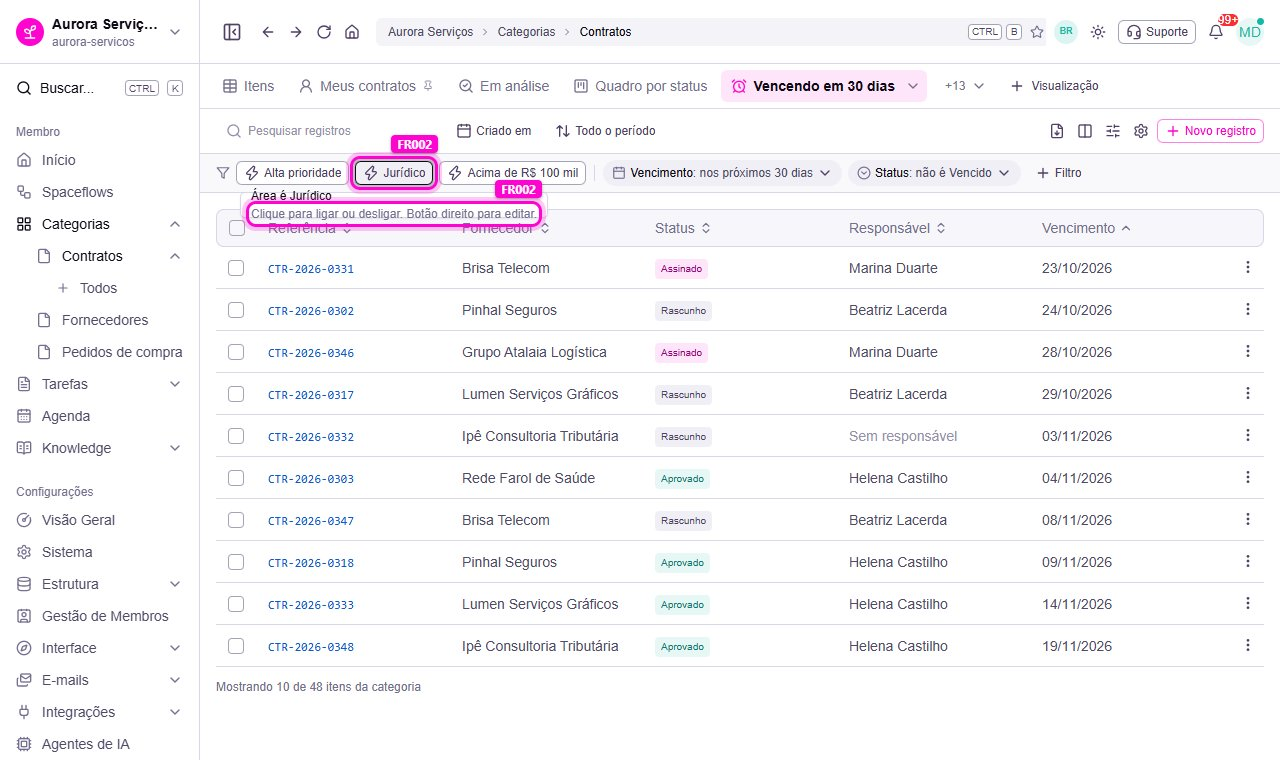
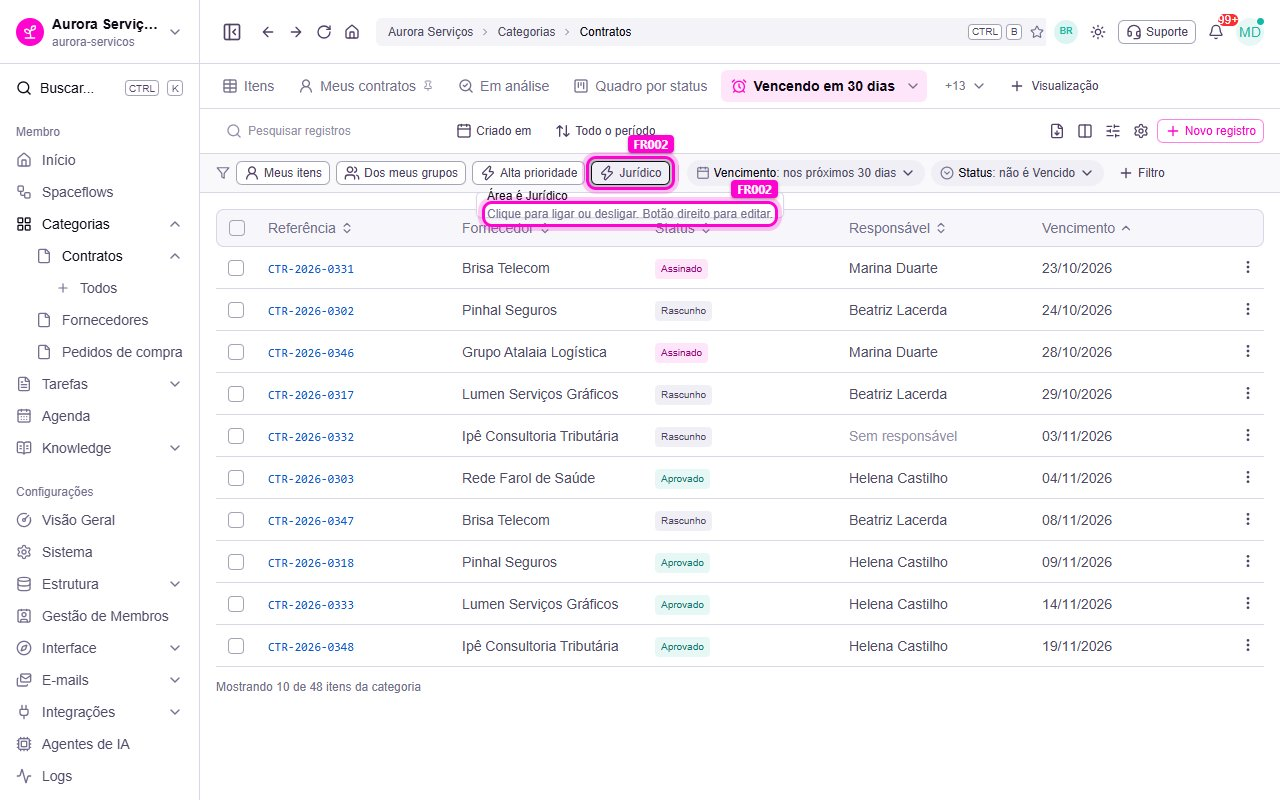
[PROTO] visualizacoes-da-tela-de-itens — rodada 8 — Meus itens e Dos meus grupos como botões em toda visualização; criar filtro rápido só quando a pessoa pede

diff --git a/app/pages/visualizacoes-da-tela-de-itens/textos.ts b/app/pages/visualizacoes-da-tela-de-itens/textos.ts
@@ -321,8 +321,8 @@ const ptBR = {
     criadoAjuda: 'Ele fica na visualização quando você salvar.',
     alterado: (nome: string) => `Filtro rápido ${nome} alterado.`,
     excluido: (nome: string) => `Filtro rápido ${nome} excluído.`,
-    painelAjuda: 'Botões na linha de filtros. O sistema sugere 2, e você pode criar outros.',
-    doSistema: 'Sugeridos pelo sistema',
+    painelAjuda: 'Botões na linha de filtros. Os do sistema aparecem em toda visualização, e você pode criar outros.',
+    doSistema: 'Do sistema',
     seus: 'Criados por você',
     sugerido: {
       isOwner: { nome: 'Meus itens', ajuda: 'Itens em que você é o dono.' },
@@ -332,7 +332,7 @@ const ptBR = {
     modoBotao: 'Como botão',
     modoSempre: 'Sempre aplicado',
     comoUsar: (nome: string) => `Como usar ${nome}`,
-    dicaSistema: 'Sugerido pelo sistema. Clique para ligar ou desligar.',
+    dicaSistema: 'Filtro do sistema. Clique para ligar ou desligar.',
     nenhum: 'Nenhum filtro rápido.',
     adicionar: 'Adicionar filtro rápido',
     editarNome: (nome: string) => `Editar ${nome}`,
@@ -774,8 +774,8 @@ const en: Textos = {
     criadoAjuda: 'It stays in the view once you save.',
     alterado: (nome: string) => `Quick filter ${nome} updated.`,
     excluido: (nome: string) => `Quick filter ${nome} deleted.`,
-    painelAjuda: 'Buttons in the filter bar. The system suggests 2, and you can create others.',
-    doSistema: 'Suggested by the system',
+    painelAjuda: 'Buttons in the filter bar. The system ones appear in every view, and you can create others.',
+    doSistema: 'From the system',
     seus: 'Created by you',
     sugerido: {
       isOwner: { nome: 'My items', ajuda: 'Items you own.' },
@@ -785,7 +785,7 @@ const en: Textos = {
     modoBotao: 'As a button',
     modoSempre: 'Always applied',
     comoUsar: (nome: string) => `How to use ${nome}`,
-    dicaSistema: 'Suggested by the system. Click to turn it on or off.',
+    dicaSistema: 'System filter. Click to turn it on or off.',
     nenhum: 'No quick filters.',
     adicionar: 'Add quick filter',
     editarNome: (nome: string) => `Edit ${nome}`,
@@ -1225,8 +1225,8 @@ const es: Textos = {
     criadoAjuda: 'Queda en la vista cuando la guarde.',
     alterado: (nome: string) => `Filtro rápido ${nome} modificado.`,
     excluido: (nome: string) => `Filtro rápido ${nome} eliminado.`,
-    painelAjuda: 'Botones en la barra de filtros. El sistema sugiere 2, y usted puede crear otros.',
-    doSistema: 'Sugeridos por el sistema',
+    painelAjuda: 'Botones en la barra de filtros. Los del sistema aparecen en todas las vistas, y usted puede crear otros.',
+    doSistema: 'Del sistema',
     seus: 'Creados por usted',
     sugerido: {
       isOwner: { nome: 'Mis ítems', ajuda: 'Ítems de los que usted es el dueño.' },
@@ -1236,7 +1236,7 @@ const es: Textos = {
     modoBotao: 'Como botón',
     modoSempre: 'Siempre aplicado',
     comoUsar: (nome: string) => `Cómo usar ${nome}`,
-    dicaSistema: 'Sugerido por el sistema. Haga clic para activarlo o desactivarlo.',
+    dicaSistema: 'Filtro del sistema. Haga clic para activarlo o desactivarlo.',
     nenhum: 'Ningún filtro rápido.',
     adicionar: 'Agregar filtro rápido',
     editarNome: (nome: string) => `Editar ${nome}`,

diff --git a/app/pages/visualizacoes-da-tela-de-itens/index.vue b/app/pages/visualizacoes-da-tela-de-itens/index.vue
@@ -15,7 +15,7 @@ import type { EnKanbanCardConfig, EnKanbanColumn, EnTableColumn, EnTableSort } f
 import type { Item, Visualizacao, Volume } from './mocks'
 import type { ResumoDaVisualizacao } from './filtros'
 import { textos } from './textos'
-import { CAMPOS, EU, GRUPOS, ITENS, aplicar, campoPorPath, clonar, categoria, nomeDaPessoa, visualizacoesIniciais, workspace, SUGERIDOS } from './mocks'
+import { CAMPOS, EU, GRUPOS, ITENS, aplicar, campoPorPath, clonar, categoria, nomeDaPessoa, visualizacoesIniciais, sugeridosComoBotao, workspace } from './mocks'
 import CascaDaLista from './_CascaDaLista.vue'
 import BarraDeVisualizacoes from './_BarraDeVisualizacoes.vue'
 import BarraDeHoje from './_BarraDeHoje.vue'
@@ -206,7 +206,8 @@ const linhaRef = ref<InstanceType<typeof LinhaDeFiltros> | null>(null)
 const linhaPedida = ref(false)
 const temFiltro = computed(() => {
   const f = efetiva.value.filters
-  return !!(f.field_filters?.length || f.quick_filters?.length || f.avancado || f.rapidos?.length)
+  // Rodada 8: os filtros rápidos nativos são botões por padrão, então a linha aparece em toda visualização que os mostra.
+  return !!(f.field_filters?.length || f.quick_filters?.length || f.avancado || f.rapidos?.length || sugeridosComoBotao(f).length)
 })
 watch(ativa, () => { linhaPedida.value = false })
 
@@ -426,8 +427,7 @@ function novaVisualizacao(d: { tipo: 'table' | 'kanban', soEu: boolean, fixar: b
     fixada: d.fixar,
     // Standard ou Viewer cria só para si.
     user: d.soEu || !ehOwner.value ? EU.id : null,
-    // Rodada 8: a visualização nova já vem com os filtros rápidos que o sistema sugere, como botões.
-    filters: { quick_filters: SUGERIDOS.map(filter => ({ filter, required: false })) },
+    filters: {},
     // Kanban genérico sem etiqueta: o cartão do SDK tem altura fixa (h-48) e, com as 5 partes, o texto de apoio some.
     config: d.tipo === 'kanban'
       ? { hide: false, columns: base.config.columns, groupBy: 'status', cardConfig: { header: 'fornecedor', content: 'valor', userField: 'responsavel', dueDateField: 'vencimento' } }

diff --git a/app/pages/visualizacoes-da-tela-de-itens/mocks.ts b/app/pages/visualizacoes-da-tela-de-itens/mocks.ts
@@ -190,7 +190,8 @@ export type Visualizacao = Omit<ModelView, 'id' | 'created_at' | 'updated_at' | 
   }
   filters: {
     field_filters?: FiltroDeCampo[]
-    quick_filters?: { filter: 'isOwner' | 'inGroups' | string, required?: boolean }[]
+    // INVENTADO (rodada 8): `oculto` esconde o botão do filtro nativo nesta visualização.
+    quick_filters?: { filter: 'isOwner' | 'inGroups' | string, required?: boolean, oculto?: boolean }[]
     /** INVENTADO: o filtro avançado, que vale junto (E) com os filtros simples de `field_filters`. */
     avancado?: GrupoDeRegras
     /** INVENTADO (rodada 8): os filtros rápidos da visualização, na ordem dos botões. */
@@ -260,7 +261,6 @@ const POUCAS: Visualizacao[] = [
       rapidos: [
         { id: 'rapido-alta', nome: 'Alta prioridade', regras: { conector: 'and', regras: [{ field: 'prioridade', op: 'in', value: ['Alta'] }] } },
         { id: 'rapido-juridico', nome: 'Jurídico', regras: { conector: 'and', regras: [{ field: 'area', op: 'in', value: ['Jurídico'] }] } },
-        { id: 'rapido-100-mil', nome: 'Acima de R$ 100 mil', regras: { conector: 'and', regras: [{ field: 'valor', op: 'gte', value: 100000 }] } },
       ],
     },
   }),
@@ -333,6 +333,9 @@ export type Sugerido = typeof SUGERIDOS[number]
 export const ICONE_DO_SUGERIDO: Record<Sugerido, string> = { isOwner: 'i-lucide-user-round', inGroups: 'i-lucide-users' }
 /** O sugerido sem `required` é botão na linha de filtros; este é o id dele entre os ligados. */
 export const idDoSugerido = (f: string) => `sistema-${f}`
+/** Os nativos que a linha mostra como botão: todos, por padrão; sai o que a visualização aplica sempre ou esconde. */
+export const sugeridosComoBotao = (f: Visualizacao['filters']): Sugerido[] =>
+  SUGERIDOS.filter((s) => { const q = f.quick_filters?.find(x => x.filter === s); return !q || (!q.required && !q.oculto) })
 
 /**
  * `ligados`: os filtros rápidos ligados agora; cada um vale junto (E) com os outros filtros.

diff --git a/app/pages/visualizacoes-da-tela-de-itens/_LinhaDeFiltros.vue b/app/pages/visualizacoes-da-tela-de-itens/_LinhaDeFiltros.vue
@@ -13,7 +13,7 @@
  */
 import type { FiltroDeCampo, FiltroRapido, GrupoDeRegras, Visualizacao } from './mocks'
 import type { Textos } from './textos'
-import { CAMPOS, ICONE_DO_SUGERIDO, ICONE_DO_TIPO, campoPorPath, clonar, idDoSugerido } from './mocks'
+import { CAMPOS, ICONE_DO_SUGERIDO, ICONE_DO_TIPO, campoPorPath, clonar, idDoSugerido, sugeridosComoBotao } from './mocks'
 import type { Sugerido } from './mocks'
 import { campoLivre, contarRegras, regraNova, useDescricaoDeFiltro } from './filtros'
 import ChipDeFiltro from './_ChipDeFiltro.vue'
@@ -34,9 +34,9 @@ const simples = computed(() => filtros.value.field_filters ?? [])
 const rapidos = computed(() => filtros.value.quick_filters ?? [])
 const avancado = computed(() => filtros.value.avancado)
 const botoes = computed(() => filtros.value.rapidos ?? [])
-/* Rodada 8: o filtro pronto com `required` é chip fixo, como hoje; sem `required`, é botão sugerido pelo sistema. */
+/* Rodada 8: os nativos são botões em toda visualização, por padrão; o que a visualização aplica sempre é chip fixo, como hoje. */
 const fixos = computed(() => rapidos.value.filter(q => q.required))
-const sugeridos = computed(() => rapidos.value.filter(q => !q.required).map(q => q.filter as Sugerido))
+const sugeridos = computed<Sugerido[]>(() => sugeridosComoBotao(filtros.value))
 
 const mudar = (parte: Partial<Filtros>) => { filtros.value = { ...clonar(filtros.value), ...parte } }
 

diff --git a/app/pages/visualizacoes-da-tela-de-itens/_PainelDeConfiguracao.vue b/app/pages/visualizacoes-da-tela-de-itens/_PainelDeConfiguracao.vue
@@ -157,8 +157,8 @@ function soltarColuna() {
 
 /* ---------- filtros ---------- */
 
-/* Rodada 8: cada filtro pronto que o sistema sugere tem 3 usos. "Como botão" é o `quick_filters` sem `required`
- * (o botão na linha de filtros); "Sempre aplicado" é com `required` (o filtro automático de hoje). */
+/* Rodada 8: cada filtro nativo tem 3 usos. "Como botão" é o padrão, sem nada gravado; "Sempre aplicado" é o
+ * `quick_filters` com `required` (o filtro automático de hoje); "Não usar" grava `oculto`. */
 type ModoDoSugerido = 'nao' | 'botao' | 'sempre'
 const modos = computed(() => [
   { label: props.t.rapido.modoNao, value: 'nao' },
@@ -167,12 +167,12 @@ const modos = computed(() => [
 ])
 function modoDe(f: Sugerido): ModoDoSugerido {
   const q = (rascunho.value.filters.quick_filters ?? []).find(x => x.filter === f)
-  return !q ? 'nao' : q.required ? 'sempre' : 'botao'
+  return !q ? 'botao' : q.required ? 'sempre' : q.oculto ? 'nao' : 'botao'
 }
 function mudarSugerido(f: Sugerido, modo: ModoDoSugerido) {
   mudar((x) => {
     const lista = (x.filters.quick_filters ?? []).filter(q => q.filter !== f)
-    x.filters.quick_filters = modo === 'nao' ? lista : [...lista, { filter: f, required: modo === 'sempre' }]
+    x.filters.quick_filters = modo === 'botao' ? lista : [...lista, modo === 'sempre' ? { filter: f, required: true } : { filter: f, oculto: true }]
   })
 }
 

diff --git a/app/pages/visualizacoes-da-tela-de-itens/DECISOES.md b/app/pages/visualizacoes-da-tela-de-itens/DECISOES.md
@@ -266,8 +266,10 @@
   - "tanto pra novas visualizaçoes de itens quanto pra novas visualizaçoes de tarefas o user deve ser capaz de fazer isso, beleza? criar os proprios filtros rapidos, no caso, criar um filtro e defini-lo como filtro rapido."
   - "nao só enquanto ta visualizando ele deve poder criar o filtro, mas na hora de criar uma nova visualizaçao personalizada ele tem a configuraçao de filtros automaicos, correto? nesse momento ele deve poder fazer isso tambem."
   - "mas lembre que na hora de criar views, ja tem filtros rapidos sugeridos pelo sistema. e o user deve poder criar mais. essa deve ser a jornada."
-- **Como é hoje** (lido no código do front e do back, branch develop, em 2026-11-11): o filtro rápido da visualização guarda só a chave de um filtro pronto do produto, sem condição de campo. Nos itens, os prontos são "Só os itens meus" e "Só os itens dos meus grupos"; nas Tarefas Rápidas e Agendadas, outros prontos, como Minhas tarefas, Aberto e Atrasado. Os que a visualização marca sem "obrigatório" viram botões na barra da tabela. A pessoa não cria um filtro rápido com regra própria: a demanda faz sentido e pede ao back um lugar para guardar o nome e as regras de cada botão.
+  - "quando o usuario ta na tela geral de itens e coloca pra usar um filtro rapido, ta ruim ainda. filtro rapido é algo que ja deve estar em tela. hoje os filtros rapidos nativos sao "meus itens" itens dos meus grupos". mas nao estao na interface (erro dos devs). ja devem aparecer por padrão ali pro user. se ele colocar pra criar filtro rapido, aí sim deve poder criar."
+- **Como é hoje** (lido no código do front e do back, branch develop, em 2026-11-11): o filtro rápido da visualização guarda só a chave de um filtro pronto do produto, sem condição de campo. Nos itens, os prontos são "Só os itens meus" e "Só os itens dos meus grupos"; nas Tarefas Rápidas e Agendadas, outros prontos, como Minhas tarefas, Aberto e Atrasado. Os que a visualização marca sem "obrigatório" viram botões na barra da tabela. Os 2 nativos não aparecem na tela hoje, e a redatora aponta isso como erro. A pessoa não cria um filtro rápido com regra própria: a demanda faz sentido e pede ao back um lugar para guardar o nome e as regras de cada botão.
 - **Proposta:**
+  - os 2 filtros rápidos nativos, "Meus itens" e "Dos meus grupos", aparecem como botões em toda visualização, também na tela geral de itens, sem a pessoa configurar nada. A linha de filtros aparece sempre que há um botão;
   - o filtro rápido é um botão na linha de filtros, com nome e regras; as regras usam o mesmo construtor do filtro avançado (E, Ou e grupos);
   - clicar liga e desliga o botão. Ligar não é alteração da visualização: vale até sair da tela;
   - criar, editar e excluir o botão é alteração da visualização e passa pela barra de alterações não salvas, com as permissões de salvar que já existem;
@@ -275,15 +277,15 @@
     - no menu do chip: "Salvar como filtro rápido". O modal vem com o nome do chip e a regra dele; ao criar, o chip sai e o botão nasce ligado, e a tabela não muda;
     - no "+ Filtro": "Filtro rápido", que abre o modal vazio;
   - criar na configuração, também ao criar uma visualização nova: o painel ganha o bloco "Filtros rápidos", no lugar dos 2 filtros automáticos, em 2 partes:
-    - "Sugeridos pelo sistema": os filtros prontos do produto ("Meus itens" e "Dos meus grupos"), cada um com 3 usos: "Não usar", "Como botão" (o botão na linha de filtros) e "Sempre aplicado" (o filtro automático de hoje, que continua como chip fixo). A visualização nova já vem com os 2 como botão;
+    - "Do sistema": os 2 nativos, cada um com 3 usos: "Como botão" (o padrão, sem nada gravado), "Sempre aplicado" (o filtro automático de hoje, que continua como chip fixo) e "Não usar" (esconde o botão nesta visualização);
     - "Criados por você": os botões da pessoa, com editar e excluir em cada um, e "Adicionar filtro rápido";
   - cada filtro por campo do painel ganha o botão "Salvar como filtro rápido", que faz o mesmo que o menu do chip;
   - editar e excluir na tela: botão direito no filtro rápido, ou "Excluir filtro rápido" dentro do modal de edição;
   - a dica do botão mostra a regra e "Clique para ligar ou desligar. Botão direito para editar.";
   - o modal pede nome (até 40 caracteres, sem repetir na mesma visualização) e pelo menos 1 regra com valor.
-- **Tarefas:** a mesma lógica vale para as visualizações das Tarefas Rápidas e das Tarefas Agendadas: os filtros prontos delas (como Minhas tarefas, Aberto e Atrasado) entram em "Sugeridos pelo sistema", e a pessoa cria outros. O protótipo mostra a tela de itens.
-- **Fronteira:** muda a linha de filtros, o menu do chip e o painel de configuração (os 2 filtros automáticos viram os sugeridos do bloco de filtros rápidos); o modal novo fica em `_EditorDeFiltroRapido.vue`. A barra de visualizações, a tabela e os filtros prontos não mudam.
-- **Prints:** `evidencias/r8-*.jpg`, 12 prints.
+- **Tarefas:** a mesma lógica vale para as visualizações das Tarefas Rápidas e das Tarefas Agendadas: os filtros prontos delas (como Minhas tarefas, Aberto e Atrasado) aparecem como botões do sistema, e a pessoa cria outros. O protótipo mostra a tela de itens.
+- **Fronteira:** muda a linha de filtros, o menu do chip e o painel de configuração (os 2 filtros automáticos viram os nativos do bloco de filtros rápidos); a visualização de exemplo "Vencendo em 30 dias" tem 2 botões criados pela pessoa; o modal novo fica em `_EditorDeFiltroRapido.vue`. A barra de visualizações, a tabela e os filtros prontos não mudam.
+- **Prints:** `evidencias/r8-*.jpg`, 14 prints.
 - **Em aberto:**
   - o botão ligado fica ligado ao voltar à visualização, ou volta desligado como no protótipo?
   - quem não pode salvar a visualização pode criar filtro rápido só para si?
